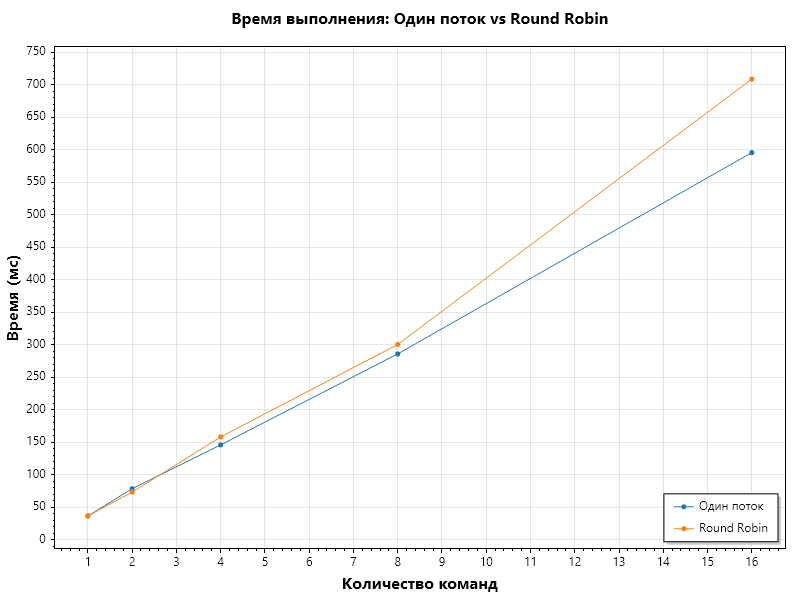
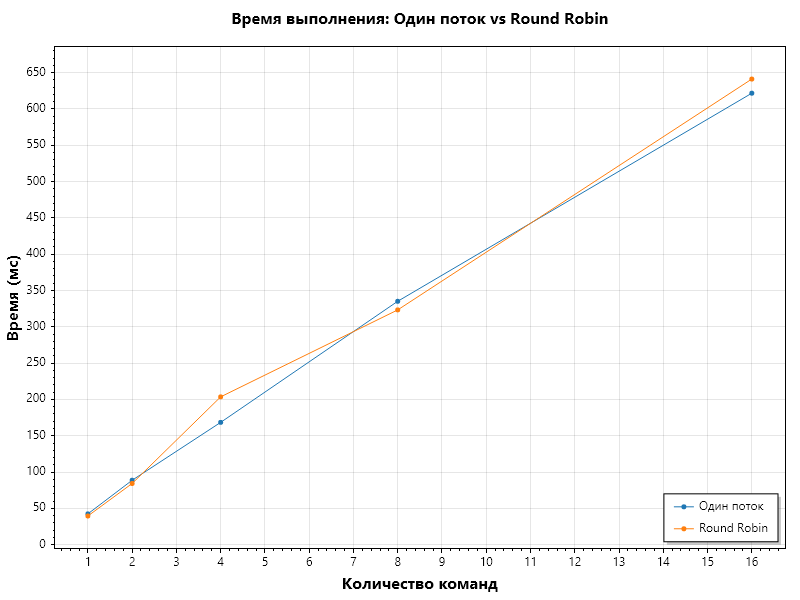
Complete task19

diff --git a/task17/ServerThread.cs b/task17/ServerThread.cs
@@ -75,21 +75,20 @@ namespace task17
 
         private void DefaultBehavior()
         {
+            while (_queue.TryTake(out var incoming))
+            {
+                _scheduler.Add(incoming);
+            }
+
             if (_scheduler.HasCommand())
             {
                 RunStep(_scheduler.Select());
-
-                while (_queue.TryTake(out var incoming))
-                {
-                    RunStep(incoming);
-                }
-
                 return;
             }
 
             try
             {
-                ICommand command = _queue.Take();
+                var command = _queue.Take();
                 RunStep(command);
             }
             catch (InvalidOperationException)

diff --git a/task17/TestCommand.cs b/task17/TestCommand.cs
@@ -1,0 +1,21 @@
+using System;
+
+namespace task17;
+
+public class TestCommand : ILongCommand
+{
+    private readonly int _id;
+    private int _counter;
+
+    public TestCommand(int id)
+    {
+        _id = id;
+    }
+
+    public bool IsCompleted => _counter >= 3;
+
+    public void Execute()
+    {
+        Console.WriteLine($"Поток {_id} вызов {++_counter}");
+    }
+}
